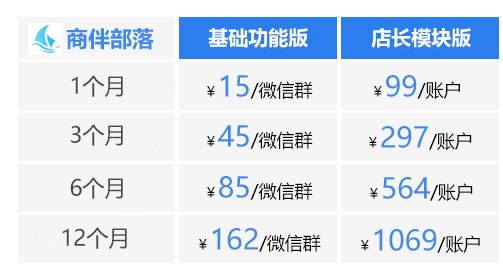
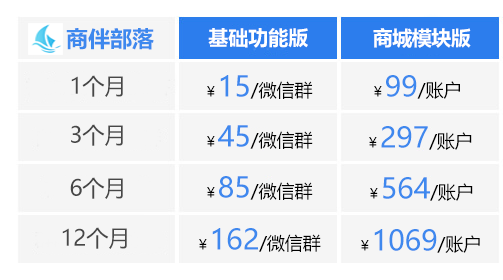
修改样式

Changed region(s): [[0.7157, 0.0857, 0.9543, 0.1714]]

diff --git a/src/buy2/App.vue b/src/buy2/App.vue
@@ -6,9 +6,9 @@
           <img id="head" :src="headPhoto" />
         </a>
         <div class="intro">
-          <span>
+          <!-- <span>
             <a style="color: white;font-weight: 900;" href="rule.html">运行规则</a>
-          </span>
+          </span> -->
           <span>
             <a style="color: white;font-weight: 900;" href="guide.html">网店指南</a>
           </span>
@@ -18,9 +18,9 @@
         <div class="tip">
           <div class="intro">
             <p>温馨提示:</p>
-            <p>1.云网店可独立于找商伴，单独购买独立使用。</p>
-            <p>2.云网店不得用于发送涉及黄/毒/赌/传销/涉政/股票/区块链等非法以及其他虚假、夸大的信息、广告。</p>
-            <p>3.单个账户可购买1（店长模块）+N（基础模块群），N&lt;=8。</p>
+            <p>1.货架可独立于找商伴，单独购买独立使用。</p>
+            <p>2.货架不得用于发送涉及黄/毒/赌/传销/涉政/股票/区块链等非法以及其他虚假、夸大的信息、广告。</p>
+            <p>3.单个账户可购买1（商城模块）+N（基础模块群），N&lt;=8。</p>
           </div>
           <div class="flow">
             <h4>购买流程</h4>
@@ -30,7 +30,7 @@
             <img src="./assets/images/desc.png" />
           </div>
           <div class="footer">
-            <button @click="handleJump('/pay.html')">购买网店</button>
+            <button @click="handleJump('/pay.html')">购买货架</button>
             <button @click="handleJump('/qa.html')">在线客服</button>
           </div>
         </div>

diff --git a/src/buyer/stats/App.vue b/src/buyer/stats/App.vue
@@ -3,6 +3,7 @@
     <weui-cells>
       <weui-cell label="赠送券总数：">{{data.sendedNums}}</weui-cell>
       <weui-cell label="已核销券总数：">{{data.usedNums}}</weui-cell>
+      <weui-cell label="已过期券总数：">{{data.expireNums}}</weui-cell>
       <weui-cell label="剩余券总数：">{{data.sendedNums - data.usedNums}}</weui-cell>
     </weui-cells>
     <weui-cells>
@@ -26,9 +27,9 @@
 </template>
 
 <script>
-import { WeuiCells, WeuiCell, WeuiCellAccess } from '../../common/components';
-import { tryFunc } from '../../common/js/common';
-import axios from '../../common/js/axios';
+import { WeuiCells, WeuiCell, WeuiCellAccess } from "../../common/components";
+import { tryFunc } from "../../common/js/common";
+import axios from "../../common/js/axios";
 
 export default {
   data() {
@@ -46,7 +47,7 @@ export default {
   mounted() {
     tryFunc(async () => {
       this.showApp = true;
-      const { data } = await axios.get('/shop/data');
+      const { data } = await axios.get("/shop/data");
       this.data = data;
     });
   },

diff --git a/src/buyer/coupon/App.vue b/src/buyer/coupon/App.vue
@@ -12,6 +12,7 @@
           <div class="weui-media-box__bd">
             <h4 class="weui-media-box__title">¥{{coupon.price}}</h4>
             <p class="weui-media-box__desc">到账时间：{{coupon.createTime | time}}</p>
+            <p class="weui-media-box__desc">过期时间：{{coupon.expireTime | time}}</p>
           </div>
           <div class="weui-media-box__fd">
             <a :href="`/shop.html?userId=${coupon.shopId}`">去使用</a>
@@ -30,13 +31,14 @@ import axios from '../../common/js/axios';
 import format from 'date-fns/format';
 import { auth } from '../../common/js/auth';
 import { tryFunc } from '../../common/js/common';
-import { WeuiPanel, WeuiLoadMoreLine } from '../../common/components';
+import { WeuiPanel, WeuiLoadMoreLine,WeuiCells } from '../../common/components';
 import '../../common/js/share';
 
 export default {
   components: {
     WeuiPanel,
-    WeuiLoadMoreLine
+    WeuiLoadMoreLine,
+    WeuiCells
   },
   data() {
     return {

diff --git a/src/pay/App.vue b/src/pay/App.vue
@@ -3,15 +3,15 @@
     <div class="content">
       <div class="intro">
         <p>提醒:</p>
-        <p>1.购买支付成功后，账户管家购买功能自动开通。</p>
-        <p>2.个人账户管家管理功能开通，并提供人工客服服务。</p>
+        <p>1.购买支付成功后，货架购买功能自动开通。</p>
+        <p>2.个人账户货架能开通，并提供人工客服服务。</p>
       </div>
       <h4>产品报价</h4>
       <div class="price">
         <img src="./assets/images/pay.png" />
       </div>
       <h4>产品购买</h4>
-      <div class="weui-cells__title"><b>店长模块版</b></div>
+      <div class="weui-cells__title"><b>商城模块版</b></div>
       <div class="weui-cells weui-cells_form">
         <div class="weui-cell weui-cell_select weui-cell_select-after">
           <div class="weui-cell__hd">

diff --git a/src/common/components/Bar.vue b/src/common/components/Bar.vue
@@ -10,7 +10,7 @@
       </a>
       <a href="/vip/shopper.html" class="weui-tabbar__item" :class="{'weui-bar__item_on':activeIndex===3}">
         <img src="./assets/images/manager.png" alt="" class="weui-tabbar__icon">
-        <p class="weui-tabbar__label">我的网店</p>
+        <p class="weui-tabbar__label">我的货架</p>
       </a>
       <a href="/group/enter.html" class="weui-tabbar__item" :class="{'weui-bar__item_on':activeIndex===2}">
         <img src="./assets/images/users.png" alt="" class="weui-tabbar__icon">

diff --git a/src/other/toker/index.html b/src/other/toker/index.html
@@ -5,7 +5,7 @@
   <meta charset="UTF-8">
   <meta name="viewport" content="width=device-width, initial-scale=1.0,user-scalable=0">
   <meta http-equiv="X-UA-Compatible" content="ie=edge">
-  <title>引流拓客</title>
+  <title>店铺设置</title>
   <link href="http://static.fangzhoubuluo.com/css/weui.min.css" rel="stylesheet">
 <script type="text/javascript" src="http://static.fangzhoubuluo.com/baidu.js?v=1"></script> </head>
 

diff --git a/src/pay/index.html b/src/pay/index.html
@@ -5,7 +5,7 @@
   <meta charset="UTF-8">
   <meta name="viewport" content="width=device-width, initial-scale=1.0,user-scalable=0">
   <meta http-equiv="X-UA-Compatible" content="ie=edge">
-  <title>管家购买</title>
+  <title>货架购买</title>
   <link href="http://static.fangzhoubuluo.com/css/weui.min.css" rel="stylesheet">
 <script type="text/javascript" src="http://static.fangzhoubuluo.com/baidu.js?v=1"></script> </head>
 

diff --git a/src/buy2/index.html b/src/buy2/index.html
@@ -5,7 +5,7 @@
   <meta charset="UTF-8">
   <meta name="viewport" content="width=device-width, initial-scale=1.0,user-scalable=0">
   <meta http-equiv="X-UA-Compatible" content="ie=edge">
-  <title>云网店</title>
+  <title>好货架</title>
   <link href="http://static.fangzhoubuluo.com/css/weui.min.css" rel="stylesheet">
 <script type="text/javascript" src="http://static.fangzhoubuluo.com/baidu.js?v=1"></script> </head>
 

diff --git a/src/vip/shopper/index.html b/src/vip/shopper/index.html
@@ -5,7 +5,7 @@
   <meta charset="UTF-8">
   <meta name="viewport" content="width=device-width, initial-scale=1.0,user-scalable=0">
   <meta http-equiv="X-UA-Compatible" content="ie=edge">
-  <title>云网店</title>
+  <title>好货架</title>
   <link href="http://static.fangzhoubuluo.com/css/weui.min.css" rel="stylesheet">
 <script type="text/javascript" src="http://static.fangzhoubuluo.com/baidu.js?v=1"></script> </head>
 

diff --git a/src/common/components/NavHead.vue b/src/common/components/NavHead.vue
@@ -1,10 +1,10 @@
 <template>
   <ul class="nav-head">
     <li>
-      <a href="/show/huojiayongtu.html">货架专属</a>
+      <a href="/show/shangbanyongtu.html">商伴专属</a>
     </li>
     <li>
-      <a href="/show/shangbanyongtu.html">商伴专属</a>
+      <a href="/show/huojiayongtu.html">货架专属</a>
     </li>
     <li>
       <a href="/about.html">关于我们</a>

diff --git a/src/self/center/App.vue b/src/self/center/App.vue
@@ -14,7 +14,7 @@
       </div>
       <div class="bd">
         <div class="my">
-          <div @click="handleJump('/vip/shopper.html')">我的管家</div>
+          <div @click="handleJump('/vip/shopper.html')">我的货架</div>
           <div @click="handleJump('/group/enter.html')">
             我的商伴
           </div>

diff --git a/src/vip/shopper/App.vue b/src/vip/shopper/App.vue
@@ -5,7 +5,7 @@
     </a>
     <div class="page__hd top">
       <div class="top-info">
-        <h1 class="page__title">云网店</h1>
+        <h1 class="page__title">好货架</h1>
       </div>
       <p class="page__desc">建议您关注并置顶公众号，以方便您及时收取和处理相关进展</p>
     </div>
